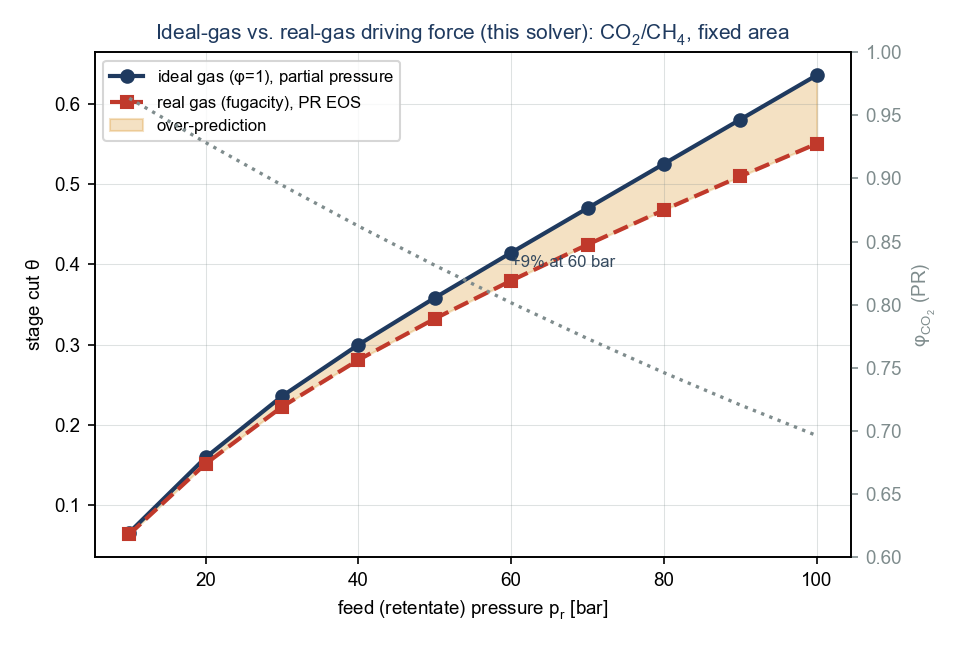
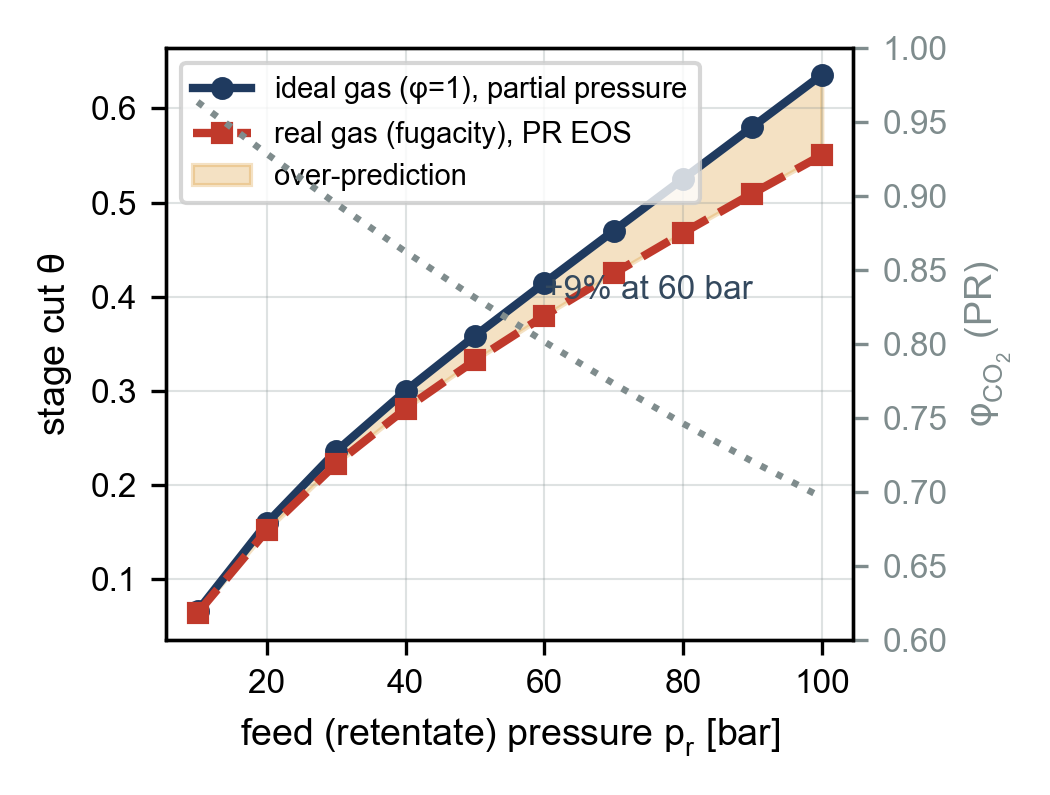
figures: restyle validation plots for double-column legibility
The seven techref validation figures used in the paper were drawn at about six
inches and shrank to illegible fonts at journal column width. Restyle their plot
scripts to the same recipe as the case-study figures: draw at column or full width
with real point sizes (axis label 9, tick 8, legend 7 pt) and drop the redundant
in-figure titles, since the captions already carry the description. The two
two-panel figures (Shindo, Aziaba) are drawn at full text width and placed as
figure* in the paper so both panels stay legible. Data arrays, CSV loading and
plot logic are unchanged; PNGs regenerated at 300 dpi.

diff --git a/docs/techref/figures/make_ig_rg.py b/docs/techref/figures/make_ig_rg.py
@@ -9,9 +9,12 @@ matplotlib.use("Agg")
 import matplotlib.pyplot as plt
 
 NAVY, RED, AMBER, SLATE, GREY = "#1F3A5F", "#C0392B", "#D68910", "#7F8C8D", "#34495E"
-plt.rcParams["font.family"] = "Arial"
-plt.rcParams["font.size"] = 9
-plt.rcParams["mathtext.default"] = "regular"
+plt.rcParams.update({
+    "font.family": "Arial", "font.size": 8, "mathtext.default": "regular",
+    "axes.labelsize": 9, "xtick.labelsize": 8, "ytick.labelsize": 8,
+    "legend.fontsize": 7, "lines.linewidth": 1.4, "lines.markersize": 4.5,
+    "axes.linewidth": 0.8, "savefig.dpi": 300, "figure.dpi": 300,
+})
 
 HERE = os.path.dirname(os.path.abspath(__file__))
 rows = list(csv.DictReader(open(os.path.join(HERE, "data", "ig_rg.csv"))))
@@ -20,14 +23,14 @@ tig = np.array([float(r["theta_ig"]) for r in rows])
 trg = np.array([float(r["theta_rg"]) for r in rows])
 phiCO2 = np.array([float(r["phiCO2"]) for r in rows])
 
-fig, ax = plt.subplots(figsize=(6.4, 4.3))
+fig, ax = plt.subplots(figsize=(3.5, 2.65))
 ax.plot(pr, tig, "o-", color=NAVY, lw=2, label=r"ideal gas ($\varphi$=1), partial pressure")
 ax.plot(pr, trg, "s--", color=RED, lw=2, label=r"real gas (fugacity), PR EOS")
 ax.fill_between(pr, trg, tig, color=AMBER, alpha=0.25, label="over-prediction")
 ax.set_xlabel("feed (retentate) pressure $p_r$ [bar]")
 ax.set_ylabel(r"stage cut $\theta$")
 ax.grid(True, color=SLATE, alpha=0.25, lw=0.5)
-ax.legend(loc="upper left", fontsize=8)
+ax.legend(loc="upper left", fontsize=7)
 
 # secondary axis: CO2 fugacity coefficient (the source of the correction)
 ax2 = ax.twinx()
@@ -41,8 +44,6 @@ i60 = int(np.argmin(np.abs(pr - 60)))
 gap = 100 * (tig[i60] - trg[i60]) / trg[i60]
 ax.annotate(f"+{gap:.0f}% at 60 bar", (pr[i60], 0.5 * (tig[i60] + trg[i60])),
             fontsize=8, color=GREY, ha="left")
-ax.set_title("Ideal-gas vs. real-gas driving force (this solver): CO$_2$/CH$_4$, fixed area",
-             color=NAVY, fontsize=10)
 fig.tight_layout()
-fig.savefig(os.path.join(HERE, "val_ig_rg.png"), dpi=150)
+fig.savefig(os.path.join(HERE, "val_ig_rg.png"), dpi=300)
 print("wrote val_ig_rg.png")

diff --git a/docs/techref/figures/make_c3.py b/docs/techref/figures/make_c3.py
@@ -10,9 +10,12 @@ matplotlib.use("Agg")
 import matplotlib.pyplot as plt
 
 NAVY, RED, AMBER, SLATE, GREY = "#1F3A5F", "#C0392B", "#D68910", "#7F8C8D", "#34495E"
-plt.rcParams["font.family"] = "Arial"
-plt.rcParams["font.size"] = 9
-plt.rcParams["mathtext.default"] = "regular"
+plt.rcParams.update({
+    "font.family": "Arial", "font.size": 8, "mathtext.default": "regular",
+    "axes.labelsize": 9, "xtick.labelsize": 8, "ytick.labelsize": 8,
+    "legend.fontsize": 7, "lines.linewidth": 1.4, "lines.markersize": 4.5,
+    "axes.linewidth": 0.8, "savefig.dpi": 300, "figure.dpi": 300,
+})
 
 HERE = os.path.dirname(os.path.abspath(__file__))
 rows = list(csv.DictReader(open(os.path.join(HERE, "data", "c3_ig_rg.csv"))))
@@ -23,7 +26,7 @@ abs_mempy = 100.0 * (tig_mp - np.array([float(r["theta_rg_mempy"]) for r in rows
 abs_const = 100.0 * (tig - np.array([float(r["theta_rg_const"]) for r in rows]))
 abs_local = 100.0 * (tig - np.array([float(r["theta_rg_local"]) for r in rows]))
 
-fig, ax = plt.subplots(figsize=(6.4, 4.3))
+fig, ax = plt.subplots(figsize=(3.5, 2.65))
 ax.plot(pmpa, abs_mempy, "s-", color=RED, lw=2, label="MemPy 2-D (DeJaco et al.), EOS-coupled")
 ax.plot(pmpa, abs_const, "o-", color=NAVY, lw=2, label="this solver, constant feed-$\\varphi$")
 ax.plot(pmpa, abs_local, "x--", color=AMBER, lw=1.6, ms=7, label="this solver, local $\\varphi(\\theta)$ (table+interp)")
@@ -33,9 +36,7 @@ ax.annotate("0.9 MPa", (0.9, 0.4), color=SLATE, fontsize=8, ha="center")
 ax.set_xlabel("feed pressure [MPa]")
 ax.set_ylabel(r"stage-cut over-prediction $\theta_{IG}-\theta_{RG}$ [percentage points]")
 ax.grid(True, color=SLATE, alpha=0.25, lw=0.5)
-ax.legend(loc="upper left", fontsize=8)
-ax.set_title("Real-gas correction, propane/propylene (matched stage cut):\n"
-             "constant vs. local $\\varphi$ vs. MemPy", color=NAVY, fontsize=9.5)
+ax.legend(loc="upper left", fontsize=7)
 fig.tight_layout()
-fig.savefig(os.path.join(HERE, "val_c3_ig_rg.png"), dpi=150)
+fig.savefig(os.path.join(HERE, "val_c3_ig_rg.png"), dpi=300)
 print("wrote val_c3_ig_rg.png")

diff --git a/docs/techref/figures/make_geankoplis.py b/docs/techref/figures/make_geankoplis.py
@@ -9,9 +9,12 @@ matplotlib.use("Agg")
 import matplotlib.pyplot as plt
 
 NAVY, RED, AMBER, SLATE, GREY = "#1F3A5F", "#C0392B", "#D68910", "#7F8C8D", "#34495E"
-plt.rcParams["font.family"] = "Arial"
-plt.rcParams["font.size"] = 9
-plt.rcParams["mathtext.default"] = "regular"
+plt.rcParams.update({
+    "font.family": "Arial", "font.size": 8, "mathtext.default": "regular",
+    "axes.labelsize": 9, "xtick.labelsize": 8, "ytick.labelsize": 8,
+    "legend.fontsize": 7, "lines.linewidth": 1.4, "lines.markersize": 4.5,
+    "axes.linewidth": 0.8, "savefig.dpi": 300, "figure.dpi": 300,
+})
 
 HERE = os.path.dirname(os.path.abspath(__file__))
 rows = list(csv.DictReader(open(os.path.join(HERE, "data", "geankoplis_crossflow_profile.csv"))))
@@ -25,7 +28,7 @@ G_th = [0.0, 0.04876, 0.0992, 0.1482, 0.2000]
 G_x = [0.209, 0.1870, 0.1642, 0.1420, 0.1190]
 G_y = [0.6550, 0.6383, 0.6158, 0.5940, 0.5690]
 
-fig, ax = plt.subplots(figsize=(6.2, 4.2))
+fig, ax = plt.subplots(figsize=(3.5, 2.65))
 ax.plot(th, y_col, "-", color=NAVY, lw=2, label="collected permeate $y_{O_2}$ (this work)")
 ax.plot(th, y_loc, "--", color=RED, lw=1.6, label="local permeate $y_{O_2}$ (this work)")
 ax.plot(th, x_o2, "-", color=SLATE, lw=2, label="retentate $x_{O_2}$ (this work)")
@@ -37,9 +40,7 @@ ax.set_ylabel(r"O$_2$ mole fraction")
 ax.set_xlim(0, 0.20)
 ax.set_ylim(0.10, 0.70)
 ax.grid(True, color=SLATE, alpha=0.25, lw=0.5)
-ax.legend(loc="center right", framealpha=0.95, fontsize=8)
-ax.set_title("Cross-flow vs. Geankoplis Ex. 13.6-1 (O$_2$/N$_2$, $\\alpha^*$=10, $\\gamma$=0.10)",
-             color=NAVY, fontsize=10)
+ax.legend(loc="center right", framealpha=0.95, fontsize=6.5)
 fig.tight_layout()
-fig.savefig(os.path.join(HERE, "val_geankoplis.png"), dpi=150)
+fig.savefig(os.path.join(HERE, "val_geankoplis.png"), dpi=300)
 print("wrote val_geankoplis.png")

diff --git a/docs/techref/figures/make_airsep.py b/docs/techref/figures/make_airsep.py
@@ -9,9 +9,12 @@ matplotlib.use("Agg")
 import matplotlib.pyplot as plt
 
 NAVY, RED, AMBER, SLATE, GREY = "#1F3A5F", "#C0392B", "#D68910", "#7F8C8D", "#34495E"
-plt.rcParams["font.family"] = "Arial"
-plt.rcParams["font.size"] = 9
-plt.rcParams["mathtext.default"] = "regular"
+plt.rcParams.update({
+    "font.family": "Arial", "font.size": 8, "mathtext.default": "regular",
+    "axes.labelsize": 9, "xtick.labelsize": 8, "ytick.labelsize": 8,
+    "legend.fontsize": 7, "lines.linewidth": 1.4, "lines.markersize": 4.5,
+    "axes.linewidth": 0.8, "savefig.dpi": 300, "figure.dpi": 300,
+})
 
 HERE = os.path.dirname(os.path.abspath(__file__))
 rows = list(csv.DictReader(open(os.path.join(HERE, "data", "mempy_airsep.csv"))))
@@ -20,7 +23,7 @@ pf = np.array([float(r["Pfeed_kPa"]) for r in rows])
 meas = np.array([float(r["permO2_meas"]) for r in rows])
 pred = np.array([float(r["permO2_pred"]) for r in rows])
 
-fig, ax = plt.subplots(figsize=(6.2, 4.2))
+fig, ax = plt.subplots(figsize=(3.5, 2.65))
 for p, col, lab in [(205.0, NAVY, "205--206 kPa"), (274.0, RED, "274 kPa")]:
     m = np.abs(pf - p) < 5
     order = np.argsort(th[m])
@@ -31,10 +34,7 @@ for p, col, lab in [(205.0, NAVY, "205--206 kPa"), (274.0, RED, "274 kPa")]:
 ax.set_xlabel(r"stage cut $\theta$")
 ax.set_ylabel(r"permeate O$_2$ mole fraction")
 ax.grid(True, color=SLATE, alpha=0.25, lw=0.5)
-ax.legend(loc="upper right", fontsize=7.5, ncol=1)
-worst = np.max(np.abs(pred - meas))
-ax.set_title("Air separation vs. experiment (DeJaco et al., MemPy): 12 points, "
-             f"max $|\\Delta y_{{O_2}}|$={worst:.3f}", color=NAVY, fontsize=9.5)
+ax.legend(loc="upper right", fontsize=7, ncol=1)
 fig.tight_layout()
-fig.savefig(os.path.join(HERE, "val_airsep.png"), dpi=150)
+fig.savefig(os.path.join(HERE, "val_airsep.png"), dpi=300)
 print("wrote val_airsep.png")

diff --git a/docs/techref/figures/make_energy.py b/docs/techref/figures/make_energy.py
@@ -10,9 +10,12 @@ matplotlib.use("Agg")
 import matplotlib.pyplot as plt
 
 NAVY, RED, AMBER, SLATE, GREY = "#1F3A5F", "#C0392B", "#D68910", "#7F8C8D", "#34495E"
-plt.rcParams["font.family"] = "Arial"
-plt.rcParams["font.size"] = 9
-plt.rcParams["mathtext.default"] = "regular"
+plt.rcParams.update({
+    "font.family": "Arial", "font.size": 8, "mathtext.default": "regular",
+    "axes.labelsize": 9, "xtick.labelsize": 8, "ytick.labelsize": 8,
+    "legend.fontsize": 7, "lines.linewidth": 1.4, "lines.markersize": 4.5,
+    "axes.linewidth": 0.8, "savefig.dpi": 300, "figure.dpi": 300,
+})
 
 HERE = os.path.dirname(os.path.abspath(__file__))
 rows = list(csv.DictReader(open(os.path.join(HERE, "data", "energy_jt.csv"))))
@@ -24,7 +27,7 @@ Tfeed = 313.15
 pp_bar = 2.0
 mu = 1.0e-6  # K/Pa
 
-fig, ax = plt.subplots(figsize=(6.2, 4.2))
+fig, ax = plt.subplots(figsize=(3.5, 2.65))
 ax.axhline(Tfeed, color=GREY, lw=1, ls=":", label=f"feed T = {Tfeed:.2f} K")
 ax.plot(pr, tp_jt, "o-", color=RED, lw=2, label="permeate T (JT fluid)")
 ax.plot(pr, tr_jt, "s-", color=NAVY, lw=2, label="retentate T (JT fluid)")
@@ -38,10 +41,7 @@ ax.plot(pr, Tfeed + mu * (pp_bar * 1e5 - pr_pa), "-", color=AMBER, lw=1,
 ax.set_xlabel("feed (retentate) pressure $p_r$ [bar]")
 ax.set_ylabel("outlet temperature [K]")
 ax.grid(True, color=SLATE, alpha=0.25, lw=0.5)
-ax.legend(loc="lower left", fontsize=8)
-ax.set_title("Adiabatic energy layer: Joule-Thomson cooling of the permeate\n"
-             "(CO$_2$/CH$_4$, $\\theta$=0.30, $p_p$=2 bar, $\\mu$=1$\\times$10$^{-6}$ K/Pa)",
-             color=NAVY, fontsize=10)
+ax.legend(loc="lower left", fontsize=7)
 fig.tight_layout()
-fig.savefig(os.path.join(HERE, "val_energy_jt.png"), dpi=150)
+fig.savefig(os.path.join(HERE, "val_energy_jt.png"), dpi=300)
 print("wrote val_energy_jt.png")

diff --git a/docs/techref/figures/make_shindo.py b/docs/techref/figures/make_shindo.py
@@ -9,8 +9,12 @@ matplotlib.use("Agg")
 import matplotlib.pyplot as plt
 
 NAVY, RED, AMBER, SLATE, GREY = "#1F3A5F", "#C0392B", "#D68910", "#7F8C8D", "#34495E"
-plt.rcParams["font.family"] = "Arial"
-plt.rcParams["font.size"] = 9
+plt.rcParams.update({
+    "font.family": "Arial", "font.size": 8, "mathtext.default": "regular",
+    "axes.labelsize": 9, "xtick.labelsize": 8, "ytick.labelsize": 8,
+    "legend.fontsize": 7, "lines.linewidth": 1.4, "lines.markersize": 4.5,
+    "axes.linewidth": 0.8, "savefig.dpi": 300, "figure.dpi": 300,
+})
 
 HERE = os.path.dirname(os.path.abspath(__file__))
 rows = list(csv.DictReader(open(os.path.join(HERE, "data", "shindo_case1.csv"))))
@@ -22,7 +26,7 @@ ref_counter = [float(r["ref_counter"]) for r in rows]
 
 x = np.arange(len(comp))
 w = 0.38
-fig, axes = plt.subplots(1, 2, figsize=(7.4, 3.8), sharey=True)
+fig, axes = plt.subplots(1, 2, figsize=(7.2, 3.0), sharey=True)
 for ax, mine, ref, title in [
     (axes[0], mine_cross, ref_cross, "Cross-flow ($\\theta$=0.373)"),
     (axes[1], mine_counter, ref_counter, "Counter-current ($\\theta$=0.375)"),
@@ -38,9 +42,7 @@ for ax, mine, ref, title in [
 
 axes[0].set_ylabel("permeate mole fraction")
 axes[0].set_ylim(0, 0.9)
-axes[0].legend(loc="upper right", fontsize=8)
-fig.suptitle("Multicomponent benchmark: Shindo et al. (1985) Case 1 (NH$_3$/H$_2$/N$_2$)",
-             color=NAVY, fontsize=11)
+axes[0].legend(loc="upper right", fontsize=7)
 fig.tight_layout(rect=[0, 0, 1, 0.95])
-fig.savefig(os.path.join(HERE, "val_shindo_case1.png"), dpi=150)
+fig.savefig(os.path.join(HERE, "val_shindo_case1.png"), dpi=300)
 print("wrote val_shindo_case1.png")

diff --git a/docs/paper/paper.tex b/docs/paper/paper.tex
@@ -641,13 +641,13 @@ Counter-current       & NH\textsubscript{3} & 0.7368 & 0.7367 \\
 \end{tabular*}
 \end{table}
 
-\begin{figure}[t]
+\begin{figure*}[t]
   \centering
-  \includegraphics[width=0.9\linewidth]{val_shindo_case1}
+  \includegraphics[width=\linewidth]{val_shindo_case1}
   \caption{Cross-flow and counter-current permeate composition for Shindo
   Case~1, this implementation against the reference values, with per-component
   absolute deviations.}\label{fig:shindo}
-\end{figure}
+\end{figure*}
 
 \subsection{Binary analytic benchmark: Weller--Steiner cross-flow}\label{sec:val-geankoplis}
 Example 13.6-1 of \citet{geankoplis} solves an oxygen and nitrogen air
@@ -722,7 +722,7 @@ compiled table of \citet{aziaba2022}; the larger value would make argon the most
 permeable of the minor components, inconsistent with the reported ordering, so it
 appears to be a factor-of-ten transcription error in that compilation.
 
-\begin{figure}[t]
+\begin{figure*}[t]
   \centering
   \includegraphics[width=\linewidth]{val_aziaba}
   \caption{Counter-current hollow-fibre validation. Left: carbon dioxide
@@ -730,7 +730,7 @@ appears to be a factor-of-ten transcription error in that compilation.
   this solver (lines) against the digitised reference curves (circles). Right:
   the Chowdhury case with the value stated numerically in the source
   (circle).}\label{fig:aziaba}
-\end{figure}
+\end{figure*}
 
 \subsection{Air separation against measurement}\label{sec:val-airsep}
 The strongest test is against measured data. \citet{dejaco2020} report twelve

diff --git a/docs/techref/figures/make_aziaba.py b/docs/techref/figures/make_aziaba.py
@@ -16,14 +16,18 @@ matplotlib.use("Agg")
 import matplotlib.pyplot as plt
 
 NAVY, RED, AMBER, SLATE, GREY = "#1F3A5F", "#C0392B", "#D68910", "#7F8C8D", "#34495E"
-plt.rcParams["font.family"] = "Arial"; plt.rcParams["font.size"] = 9
-plt.rcParams["mathtext.default"] = "regular"
+plt.rcParams.update({
+    "font.family": "Arial", "font.size": 8, "mathtext.default": "regular",
+    "axes.labelsize": 9, "xtick.labelsize": 8, "ytick.labelsize": 8,
+    "legend.fontsize": 7, "lines.linewidth": 1.4, "lines.markersize": 4.5,
+    "axes.linewidth": 0.8, "savefig.dpi": 300, "figure.dpi": 300,
+})
 HERE = os.path.dirname(os.path.abspath(__file__))
 
 def load(name):
     return list(csv.DictReader(open(os.path.join(HERE, "data", name))))
 
-fig, (axA, axB) = plt.subplots(1, 2, figsize=(9.6, 4.3))
+fig, (axA, axB) = plt.subplots(1, 2, figsize=(7.2, 3.0))
 
 # --- Panel A: TC2 (Sada), yCO2 vs theta, three feed pressures: this work vs digitized DWSIM ---
 r2 = load("aziaba_tc2.csv")
@@ -61,5 +65,5 @@ axB.legend(h1 + h2, l1 + l2, fontsize=7, loc="center left")
 axB.set_title("TC3: H$_2$/N$_2$/CH$_4$/Ar (Ar=7.0), model output", color=NAVY, fontsize=10)
 
 fig.tight_layout()
-fig.savefig(os.path.join(HERE, "val_aziaba.png"), dpi=150)
+fig.savefig(os.path.join(HERE, "val_aziaba.png"), dpi=300)
 print("wrote val_aziaba.png")
